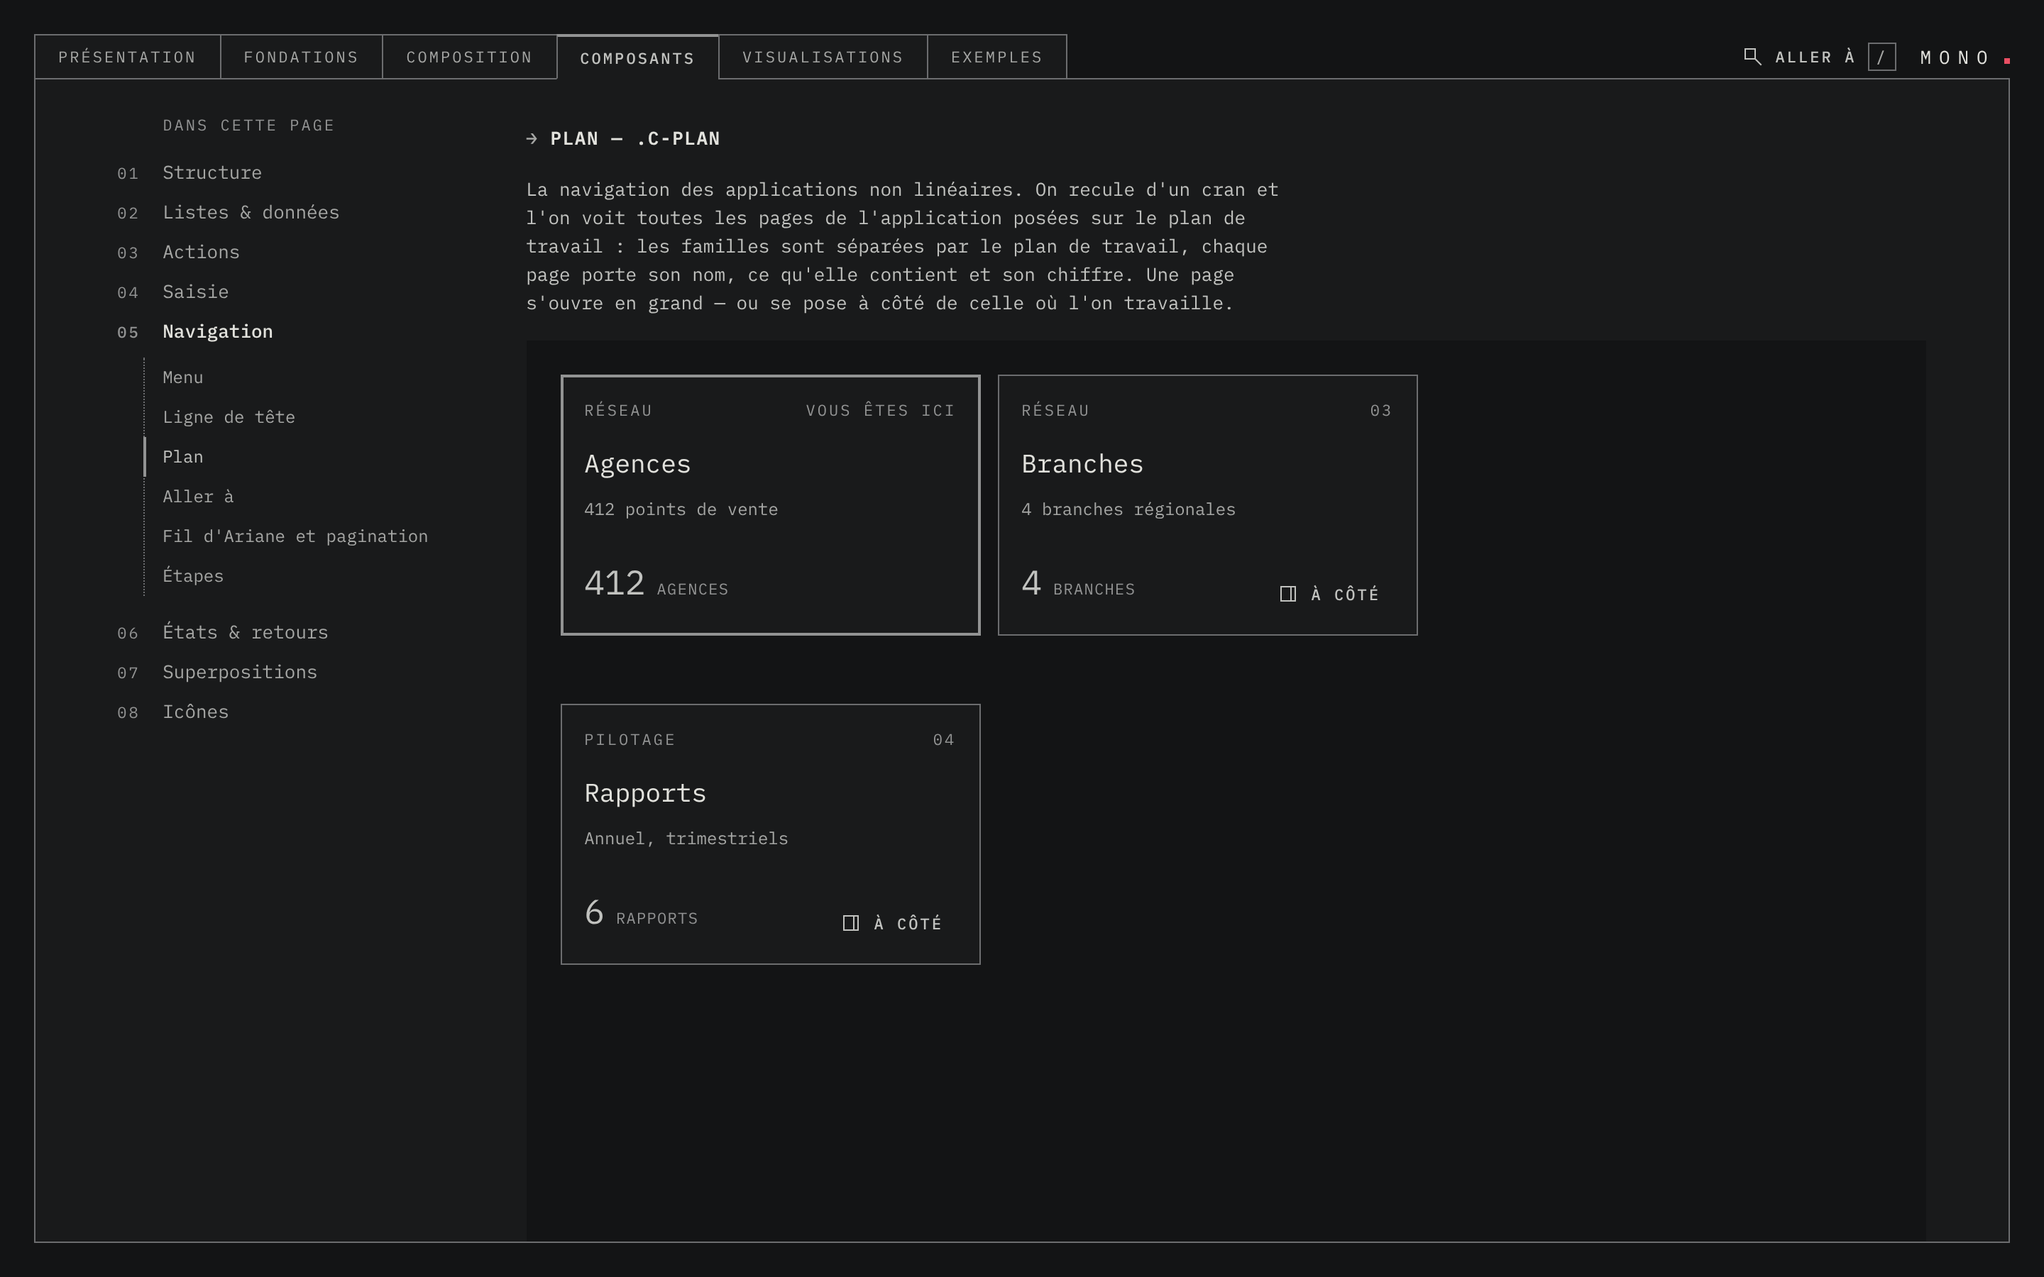
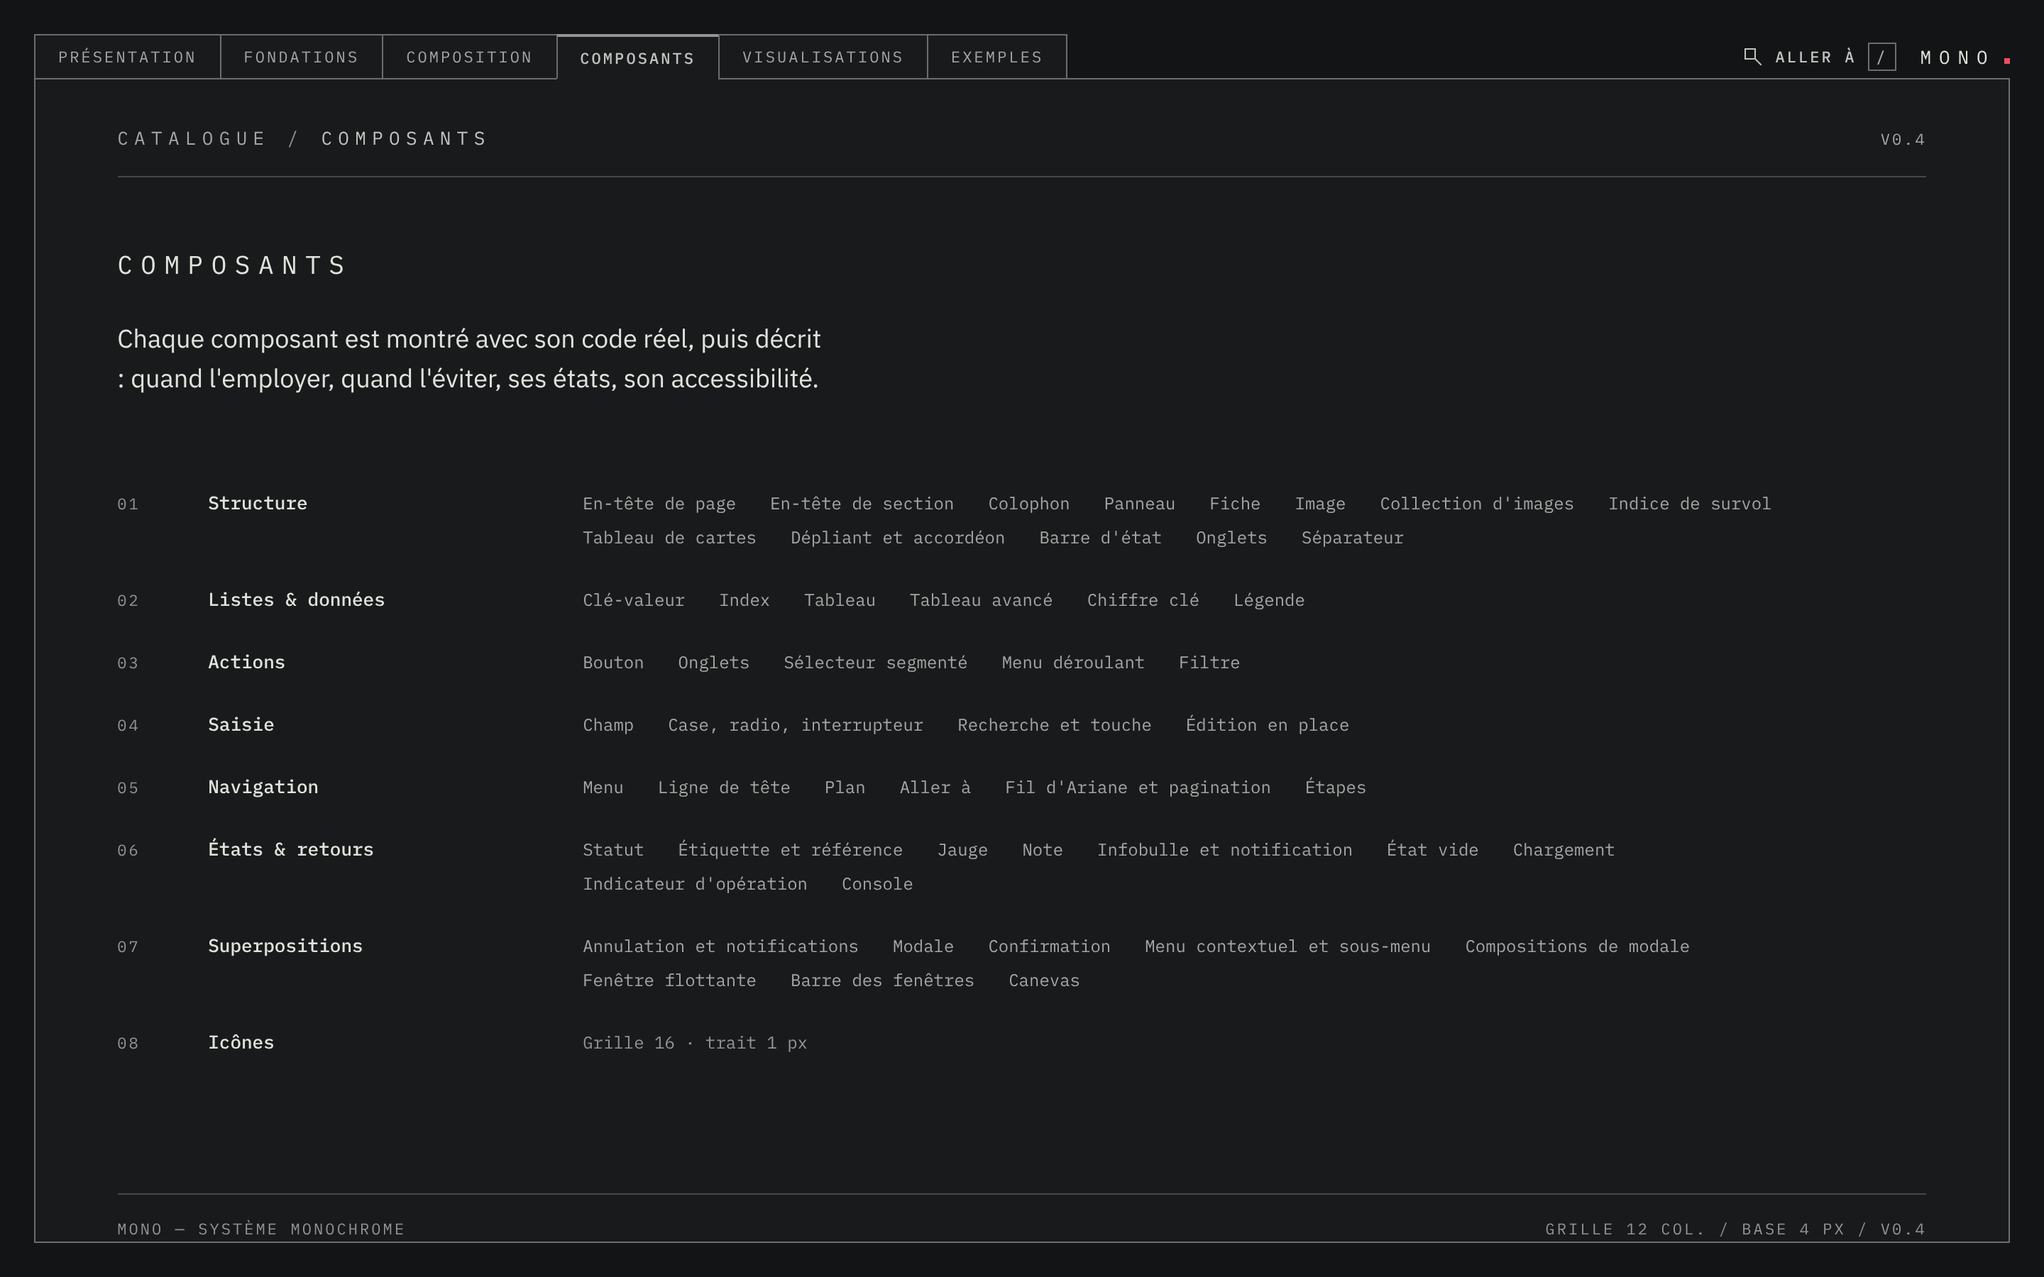
Pages du catalogue : un sommaire, puis une chose à la fois (D-077)
L'index latéral est retiré. La page s'ouvre sur son sommaire ; la rubrique ou
l'élément s'affiche seul, le fil d'Ariane ramène, « Suite » enchaîne.

Claude-Session: https://claude.ai/code/session_01Jzhjh4Bm92CMpkoPPaRiQr

diff --git a/catalogue/assets/catalogue.js b/catalogue/assets/catalogue.js
@@ -76,45 +76,50 @@
     logoDlg.showModal();
   });
 
-  // ---- Organisation d'une page : un seul index, à gauche, qui dit toute la hiérarchie.
-  // Les rubriques y sont numérotées ; celle qu'on lit est dépliée et montre ses éléments, celui qui est à
-  // l'écran est marqué et suit le défilement. À droite, une rubrique à la fois. Un niveau = un retrait,
-  // une seule direction de lecture : pas d'onglets de page par-dessus.
+  // ---- Organisation d'une page : un sommaire, puis une chose à la fois.
+  // La page s'ouvre sur son sommaire — rubriques numérotées et, dessous, leurs éléments. On descend d'un
+  // cran : la rubrique (ou l'élément, quand la rubrique en compte au moins trois) s'affiche seule, sur toute
+  // la largeur. Le fil d'Ariane dit où l'on est et ramène ; « Suite » mène à la vue suivante. Rien d'autre
+  // à l'écran que ce qu'on lit : ni colonne d'index, ni onglets de page.
   const shell = document.querySelector('.l-shell'), sections = [...document.querySelectorAll('.cat-section[id]')], intro = document.querySelector('.cat-intro');
-  const rail = document.querySelector('.cat-rail'), index = document.getElementById('cat-nav');
+  const crumb = document.querySelector('.c-breadcrumb--head'), crumb0 = crumb?.innerHTML, pageName = crumb?.querySelector('[aria-current]')?.textContent || document.title;
   const label = (sec) => sec.dataset.title || sec.querySelector('.c-section-head span:nth-child(2)')?.textContent || sec.id;
-  const subsOf = (sec) => [...sec.querySelectorAll('.cat-sub[id]')];
   const short = (sub) => (sub.querySelector('h3')?.textContent || sub.id).split(' — ')[0];
-  const indexed = sections.length > 1 && rail && index;
-  if (indexed) {
-    rail.classList.add('cat-rail--index'); if (intro) rail.before(intro);
-    index.className = 'cat-index'; index.setAttribute('aria-label', 'Dans cette page');
-    index.innerHTML = '<div class="cat-index__title">Dans cette page</div><ol>' + sections.map((sec, i) => {
-      const subs = subsOf(sec);
-      return `<li><a class="cat-index__sec" href="#${sec.id}"><span class="cat-index__num">${String(i + 1).padStart(2, '0')}</span><span>${label(sec)}</span></a>${subs.length ? `<ol class="cat-index__subs" hidden>${subs.map((sub) => `<li><a href="#${sub.id}">${short(sub)}</a></li>`).join('')}</ol>` : ''}</li>`;
-    }).join('') + '</ol>';
-    // Au bout d'une rubrique, la suivante : on peut lire la page dans l'ordre sans revenir à l'index.
-    sections.forEach((sec, i) => { const nx = sections[i + 1]; if (!nx) return; const a = document.createElement('a'); a.className = 'cat-next'; a.href = '#' + nx.id; a.innerHTML = `<span class="t-micro">Suite</span><span>${String(i + 2).padStart(2, '0')} — ${label(nx)}</span><i class="c-icon i-arrow-right" aria-hidden="true"></i>`; sec.append(a); });
+  const num = (i) => String(i + 1).padStart(2, '0');
+  const paged = sections.length > 1 && intro;
+  const views = [];   // l'ordre de lecture : une rubrique entière, ou un élément
+  let toc = null;
+  if (paged) {
+    sections.forEach((sec, i) => {
+      sec.subs = [...sec.querySelectorAll(':scope > .cat-sub[id]')]; sec.split = sec.subs.length >= 3; sec.n = i;
+      if (sec.split) {
+        sec.subs.forEach((sub) => views.push({ el: sub, sec, name: short(sub) }));
+        sec.menu = document.createElement('nav'); sec.menu.className = 'cat-toc__subs cat-toc__subs--list'; sec.menu.setAttribute('aria-label', label(sec));
+        sec.menu.innerHTML = sec.subs.map((sub) => `<a href="#${sub.id}">${short(sub)}</a>`).join(''); sec.subs[0].before(sec.menu);
+      } else views.push({ el: sec, sec, name: label(sec) });
+    });
+    toc = document.createElement('nav'); toc.className = 'cat-toc'; toc.setAttribute('aria-label', 'Sommaire');
+    toc.innerHTML = sections.map((sec, i) => {
+      const note = sec.querySelector('.c-section-head__aside')?.textContent || '';
+      return `<div class="cat-toc__row"><span class="cat-toc__num">${num(i)}</span><a class="cat-toc__title" href="#${sec.id}">${label(sec)}</a>${sec.subs.length ? `<span class="cat-toc__subs">${sec.subs.map((sub) => `<a href="#${sub.id}">${short(sub)}</a>`).join('')}</span>` : `<span class="cat-toc__note">${note}</span>`}</div>`;
+    }).join(''); intro.after(toc);
+    views.forEach((v, i) => {
+      const prev = views[i - 1], next = views[i + 1], f = document.createElement('nav'); f.className = 'cat-next'; f.setAttribute('aria-label', 'Lire dans l’ordre');
+      f.innerHTML = (next ? `<a href="#${next.el.id}"><span class="t-micro">Suite</span><span>${next.name}</span><i class="c-icon i-arrow-right" aria-hidden="true"></i></a>` : '') + (prev ? `<a href="#${prev.el.id}"><span class="t-micro">Avant</span><span>${prev.name}</span></a>` : '');
+      v.foot = f; v.el.append(f);
+    });
   }
-  let currentSec = null;
-  const markSub = (id) => index.querySelectorAll('.cat-index__subs a').forEach((a) => (a.getAttribute('href') === '#' + id ? a.setAttribute('aria-current', 'true') : a.removeAttribute('aria-current')));
-  const spy = () => {
-    if (!indexed || !currentSec) return;
-    const top = shell.getBoundingClientRect().top + 96; let cur = null;
-    for (const sub of subsOf(currentSec)) { if (sub.getBoundingClientRect().top <= top) cur = sub; else break; }
-    markSub(cur ? cur.id : '');
-  };
-  if (indexed && shell) shell.addEventListener('scroll', spy, { passive: true });
   const key = 'mono-scroll:' + location.pathname;
   const go = (id, first) => {
-    const el = id ? document.getElementById(id) : null, sec = el?.closest('.cat-section') || (first ? sections[0] : null); if (!sec) return;
-    if (indexed) {
-      currentSec = sec; sections.forEach((x) => { x.hidden = x !== sec; });
-      index.querySelectorAll('.cat-index__sec').forEach((a) => { const on = a.getAttribute('href') === '#' + sec.id; on ? a.setAttribute('aria-current', 'true') : a.removeAttribute('aria-current'); const subs = a.nextElementSibling; if (subs) subs.hidden = !on; });
-    }
-    if (first) { spy(); return; }
-    if (el && el !== sec) el.scrollIntoView({ block: 'start' }); else if (shell) shell.scrollTop = 0;
-    spy();
+    if (!paged) { if (!first && id) document.getElementById(id)?.scrollIntoView({ block: 'start' }); return; }
+    const el = id ? document.getElementById(id) : null, sec = el?.closest('.cat-section') || null;
+    const sub = sec?.split ? sec.subs.find((x) => x.contains(el)) : null, root = !sec;
+    intro.hidden = toc.hidden = !root;
+    sections.forEach((x) => { x.hidden = x !== sec; });
+    if (sec?.split) { sec.subs.forEach((x) => { x.hidden = x !== sub; }); sec.menu.hidden = !!sub; sec.classList.toggle('is-leaf', !!sub); }
+    if (crumb) crumb.innerHTML = root ? crumb0 : crumb0.replace(/<span aria-current="page">[^<]*<\/span>/, `<a href="#">${pageName}</a>`) + (sub ? `<a href="#${sec.id}">${label(sec)}</a><span aria-current="page">${short(sub)}</span>` : `<span aria-current="page">${label(sec)}</span>`);
+    if (first) return;
+    if (el && el !== sec && el !== sub) el.scrollIntoView({ block: 'start' }); else if (shell) shell.scrollTop = 0;
   };
   if (sections.length) { go(location.hash.slice(1), true); if (location.hash) requestAnimationFrame(() => go(location.hash.slice(1))); }
   addEventListener('hashchange', () => go(location.hash.slice(1)));

diff --git a/catalogue/assets/catalogue.css b/catalogue/assets/catalogue.css
@@ -1,33 +1,27 @@
 /* Habillage du catalogue uniquement (.cat-). Ne fait PAS partie du système :
    ne pas réutiliser ces classes dans un produit. */
 html { scroll-behavior: smooth; scroll-padding-top: var(--space-6); }
-/* Pas de rail de navigation : on change de page par les onglets. La colonne de gauche est l'index de la
-   page — rubriques numérotées, celle qu'on lit dépliée — et rien d'autre. */
-.cat-rail { display: block; padding-top: var(--space-6); }
-.cat-rail--index { display: grid; grid-template-columns: 14rem minmax(0, 1fr); column-gap: var(--space-8); align-items: start; }
+/* Pas de rail, pas d'index : la page s'ouvre sur son sommaire, puis montre une chose à la fois. */
+.cat-rail { display: block; padding-top: var(--space-7); }
 .cat-nav { display: none; }
-.cat-intro { padding-top: var(--space-7); }
-.cat-main { display: flex; flex-direction: column; gap: var(--space-7); min-width: 0; max-width: 64rem; padding-bottom: var(--space-9); }
-.cat-index { position: sticky; top: var(--space-5); }
-.cat-index__title { margin-bottom: var(--space-3); padding-left: 2rem; text-transform: uppercase; letter-spacing: var(--track-caps); font-size: var(--text-micro); line-height: var(--leading-micro); color: var(--fg-muted); }
-.cat-index ol { list-style: none; margin: 0; padding: 0; }
-.cat-index a { display: block; padding: var(--space-1) 0; color: var(--fg-soft); text-decoration: none; }
-.cat-index a:hover { color: var(--fg-strong); }
-.cat-index__sec { display: grid !important; grid-template-columns: 2rem minmax(0, 1fr); }
-.cat-index__num { font-size: var(--text-micro); letter-spacing: var(--track-caps); color: var(--fg-muted); align-self: baseline; }
-.cat-index__sec[aria-current] { color: var(--fg-strong); font-weight: var(--weight-medium); }
-/* Les éléments de la rubrique ouverte : même axe que le titre de la rubrique, un filet pointillé pour repère. */
-.cat-index__subs { margin: var(--space-1) 0 var(--space-3) calc(2rem - var(--space-3) - var(--stroke)) !important; border-left: var(--hairline) dotted var(--line-strong); }
-.cat-index__subs a { margin-left: calc(-1 * var(--hairline)); padding-left: var(--space-3); border-left: var(--stroke) solid transparent; font-size: var(--text-small); }
-.cat-index__subs a[aria-current] { border-left-color: var(--selected-line); color: var(--fg); }
-.cat-next { align-self: flex-start; display: inline-flex; align-items: baseline; gap: var(--space-4); margin-top: var(--space-7); color: var(--fg); text-decoration: none; }
-.cat-next > .t-micro { color: var(--fg-muted); }
+.cat-main { display: flex; flex-direction: column; gap: var(--space-7); min-width: 0; max-width: 76rem; padding-bottom: var(--space-9); }
+/* Sommaire : trois axes — le numéro, le titre, ce que la rubrique contient. Aucun filet. */
+.cat-toc { display: flex; flex-direction: column; gap: var(--space-5); margin-top: var(--space-4); }
+.cat-toc__row { display: grid; grid-template-columns: 2.5rem 15rem minmax(0, 1fr); column-gap: var(--space-5); align-items: baseline; }
+.cat-toc__num { font-size: var(--text-micro); letter-spacing: var(--track-caps); color: var(--fg-muted); }
+.cat-toc__title { color: var(--fg-strong); font-weight: var(--weight-medium); text-decoration: none; }
+.cat-toc__note { color: var(--fg-muted); font-size: var(--text-small); }
+.cat-toc__subs { display: flex; flex-wrap: wrap; gap: var(--space-1) var(--space-5); font-size: var(--text-small); }
+.cat-toc__subs a { color: var(--fg-soft); text-decoration: none; }
+.cat-toc a:hover, .cat-toc__subs a:hover { color: var(--fg-strong); text-decoration: underline; text-underline-offset: 0.3em; }
+.cat-toc__subs--list { flex-direction: column; gap: var(--space-3); font-size: inherit; }
+.cat-toc__subs--list a { color: var(--fg); }
+.cat-next { display: flex; flex-wrap: wrap; gap: var(--space-3) var(--space-8); margin-top: var(--space-8); }
+.cat-next a { display: inline-flex; align-items: baseline; gap: var(--space-4); color: var(--fg); text-decoration: none; }
+.cat-next a > .t-micro { color: var(--fg-muted); }
 .cat-next .c-icon { align-self: center; color: var(--fg-muted); }
-.cat-next:hover { color: var(--fg-strong); } .cat-next:hover .c-icon { color: var(--fg-strong); }
-@media (max-width: 900px) {
-  .cat-rail--index { grid-template-columns: minmax(0, 1fr); row-gap: var(--space-6); }
-  .cat-index { position: static; } .cat-index > ol { display: flex; flex-wrap: wrap; gap: 0 var(--space-5); } .cat-index__subs { display: none; } .cat-index__title { padding-left: 0; } .cat-index__sec { grid-template-columns: max-content max-content; column-gap: var(--space-2); }
-}
+.cat-next a:hover, .cat-next a:hover .c-icon { color: var(--fg-strong); }
+@media (max-width: 900px) { .cat-toc__row { grid-template-columns: 2.5rem minmax(0, 1fr); row-gap: var(--space-2); } .cat-toc__subs, .cat-toc__note { grid-column: 2; } }
 /* « Aller à » : la recherche, les pages et l'affichage dans une palette, ouverte d'un bouton ou de la touche /. */
 body > .c-doctabs { z-index: 30; }
 .cat-palette .cat-search { margin: 0; display: flex; flex-direction: column; height: min(38rem, 78dvh); }
@@ -152,3 +146,5 @@ button.cat-result { appearance: none; width: 100%; background: none; border-top:
 @media (max-width: 640px) { .cat-result { grid-template-columns: 1fr; } .cat-result__where { display: none; } .cat-result__text { white-space: normal; } .cat-search__help { display: none; } }
 @media (max-width: 900px) { body > .c-doctabs { flex-wrap: wrap; row-gap: var(--space-1); margin-bottom: var(--space-2); } body > .c-doctabs > .c-doctabs__spacer { display: none; } body > .c-doctabs > .c-doctabs__tools { order: -1; flex-basis: 100%; justify-content: space-between; margin-bottom: var(--space-2); } }
 .cat-search.is-browsing .cat-search__filters { display: none; }
+/* Un élément affiché seul : son titre suffit, le fil d'Ariane dit déjà la rubrique. */
+.cat-section.is-leaf > :not(.cat-sub) { display: none; }

diff --git a/docs/decisions.md b/docs/decisions.md
@@ -95,8 +95,9 @@ Les principes eux-mêmes sont dans `philosophie.md` ; ici, c'est leur histoire.
 | D-072 | Le catalogue applique son propre gabarit | en vigueur, complétée par D-075 et D-076 |
 | D-073 | Kanban : l'emplacement de la fiche se voit pendant le glissé | en vigueur |
 | D-074 | La liste déroulante suit le système | en vigueur |
-| D-075 | Catalogue : « Aller à » pour tout ce qui est global ; un index par page ; démonstrations vivantes | en vigueur |
+| D-075 | Catalogue : « Aller à » pour tout ce qui est global ; un index par page ; démonstrations vivantes | en vigueur, l'index de page remplacé par D-077 |
 | D-076 | Les exemples s'ouvrent dans leur onglet, avec le fil d'Ariane | en vigueur |
+| D-077 | Pages du catalogue : un sommaire, puis une chose à la fois | en vigueur |
 
 ---
 
@@ -711,3 +712,12 @@ Les principes eux-mêmes sont dans `philosophie.md` ; ici, c'est leur histoire.
 - **Décision** : la page Exemples range les onze écrans en quatre familles — documents, gabarits d'application, écrans de travail, à regarder — avec une vignette de chacun, dans le thème courant. Un exemple s'ouvre dans l'onglet Exemples : le fil d'Ariane devient « Catalogue / Exemples / Dossiers » et ramène à la liste ; « Ouvrir seul » le sort dans sa propre fenêtre.
 - **Raison** : c'est le cas d'usage du fil d'Ariane — on descend d'un cran sans quitter l'onglet. L'écran affiché dans la page garde son propre plan de travail : on voit que c'est un écran, pas un morceau du catalogue.
 - **Conséquence** : le thème et l'accent choisis dans « Aller à » s'appliquent aussitôt à l'exemple affiché.
+
+## D-077 — Pages du catalogue : un sommaire, puis une chose à la fois
+
+- **Date** : 2026-11-13 · **Statut** : en vigueur · **Demandée par** : le commanditaire · **Remplace** : l'index de page de D-075 (le reste de D-075 tient)
+- **Constat** : l'index vertical « Dans cette page », présent en permanence à gauche du texte, était un second objet à lire en même temps que la page. Il prenait un axe et un quart de la largeur pour dire ce que l'on sait déjà une fois arrivé. Le commanditaire : « plus sobre, plus en accord avec notre philosophie ».
+- **Décision** : aucune navigation permanente dans la page. Une page s'ouvre sur son sommaire — trois axes : le numéro, la rubrique, ce qu'elle contient. On descend d'un cran et la rubrique s'affiche seule, sur toute la largeur ; quand elle compte au moins trois éléments (les composants), c'est l'élément qui s'affiche seul. Le fil d'Ariane de l'en-tête dit où l'on est et ramène — « Catalogue / Composants / Navigation / Plan » —, exactement comme pour les exemples (D-076). En pied, « Suite » et « Avant » permettent de lire dans l'ordre sans remonter.
+- **Raison** : c'est la règle du gabarit arborescent — le chemin est la navigation — et celle du vide : à l'écran, il n'y a que ce qu'on lit. Pour sauter ailleurs, « Aller à » (touche /) est toujours là.
+- **Écarté** : l'index latéral qui suit le défilement (D-075, retiré), les onglets de rubrique (première tentative de D-075), un sommaire replié dans un menu (une navigation cachée de plus).
+- **Conséquence** : un lien ou un résultat de recherche ouvre directement la bonne vue ; l'onglet retrouve la vue où on l'avait laissé.

diff --git a/CLAUDE.md b/CLAUDE.md
@@ -103,8 +103,9 @@ Regarder aussi l'écran dans les deux thèmes (`?theme=papier` sur les pages du 
 - Le logo (`.c-logo`, sans point `--plain` dans un écran de travail) figure dans chaque
   écran, à une extrémité : bout de la rangée d'onglets, fin des métadonnées de l'en-tête,
   ou colophon. Le catalogue lui-même suit le gabarit à onglets : pas de rail. Ce qui est global
-  (recherche, thème, accent) passe par « Aller à » (touche /), jamais par l'en-tête d'une page ; chaque
-  page a un seul index à gauche (rubriques numérotées, la courante dépliée) ; un exemple s'ouvre dans
+  (recherche, thème, accent) passe par « Aller à » (touche /), jamais par l'en-tête d'une page ; une
+  page s'ouvre sur son sommaire puis montre une rubrique ou un élément à la fois, le fil d'Ariane
+  ramène (pas d'index latéral, pas d'onglets de page) ; un exemple s'ouvre dans
   l'onglet Exemples (`exemples.html?e=nom`) avec le fil d'Ariane.
 - Le système reste en CSS pur. Les comportements (fenêtres, canevas, menus,
   console) vivent dans `catalogue/assets/` comme démonstrations ; seule la version
